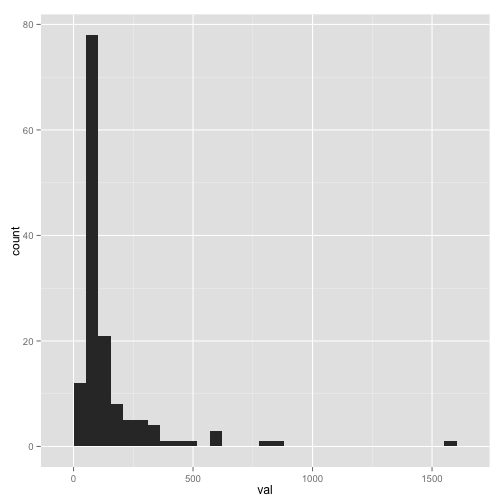
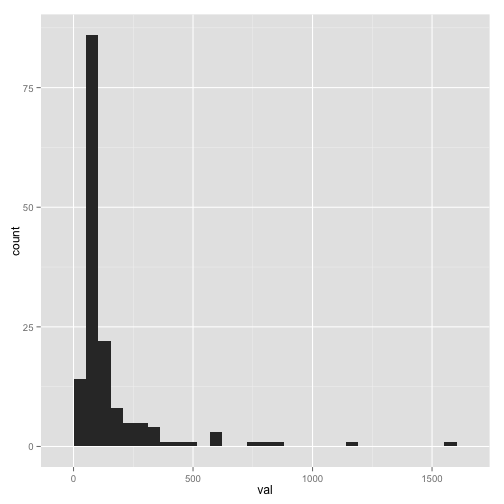
tried to update outliers workflow, but gateway timeouts again, @mfenner

diff --git a/alerts/outliers_workflow.md b/alerts/outliers_workflow.md
@@ -1,9 +1,9 @@
 Workflow for detecting and exploring just outliers
 ========================================================
 
-### Date
+### Date 
 
-Compiled on 2014-10-07 18:13:34
+Compiled on 2014-10-08 22:09:58
 
 ### Setup
 
@@ -58,19 +58,19 @@ Get data
 ```
 
 ```
-## Source: local data frame [143 x 6]
-##
+## Source: local data frame [156 x 6]
+## 
 ##          id                      article    val          create_date
 ## 1  11313573 10.1371/journal.pone.0090595 1602.0 2014-09-27T08:08:32Z
-## 2  11313611 10.1371/journal.pone.0051213  855.0 2014-09-27T08:08:33Z
-## 3  11313489 10.1371/journal.pone.0010894  783.0 2014-09-27T08:08:32Z
-## 4  11347639 10.1371/journal.pone.0023786  586.0 2014-09-29T08:07:01Z
-## 5  11313547 10.1371/journal.pone.0068330  572.0 2014-09-27T08:08:32Z
-## 6  11313595 10.1371/journal.pmed.1001493  570.7 2014-09-27T08:08:33Z
-## 7  11313569 10.1371/journal.pone.0046740  498.0 2014-09-27T08:08:32Z
-## 8  11313511 10.1371/journal.ppat.1003183  430.0 2014-09-27T08:08:32Z
-## 9  11313477 10.1371/journal.ppat.0020118  407.5 2014-09-27T08:08:32Z
-## 10 11313513 10.1371/journal.pbio.1000169  341.3 2014-09-27T08:08:32Z
+## 2  11669962 10.1371/journal.pbio.0030339 1167.0 2014-10-08T08:13:02Z
+## 3  11313611 10.1371/journal.pone.0051213  855.0 2014-09-27T08:08:33Z
+## 4  11313489 10.1371/journal.pone.0010894  783.0 2014-09-27T08:08:32Z
+## 5  11669970 10.1371/journal.pone.0068330  735.0 2014-10-08T08:13:03Z
+## 6  11347639 10.1371/journal.pone.0023786  586.0 2014-09-29T08:07:01Z
+## 7  11313547 10.1371/journal.pone.0068330  572.0 2014-09-27T08:08:32Z
+## 8  11313595 10.1371/journal.pmed.1001493  570.7 2014-09-27T08:08:33Z
+## 9  11313569 10.1371/journal.pone.0046740  498.0 2014-09-27T08:08:32Z
+## 10 11313511 10.1371/journal.ppat.1003183  430.0 2014-09-27T08:08:32Z
 ## ..      ...                          ...    ...                  ...
 ## Variables not shown: source (chr), class (chr)
 ```
@@ -91,11 +91,11 @@ toinspect <- res[1:num_get,] %>% select(-class)
 ```
 
 ```
-##  [1] "10.1371/journal.pone.0090595" "10.1371/journal.pone.0051213"
-##  [3] "10.1371/journal.pone.0010894" "10.1371/journal.pone.0023786"
-##  [5] "10.1371/journal.pone.0068330" "10.1371/journal.pmed.1001493"
-##  [7] "10.1371/journal.pone.0046740" "10.1371/journal.ppat.1003183"
-##  [9] "10.1371/journal.ppat.0020118" "10.1371/journal.pbio.1000169"
+##  [1] "10.1371/journal.pone.0090595" "10.1371/journal.pbio.0030339"
+##  [3] "10.1371/journal.pone.0051213" "10.1371/journal.pone.0010894"
+##  [5] "10.1371/journal.pone.0068330" "10.1371/journal.pone.0023786"
+##  [7] "10.1371/journal.pone.0068330" "10.1371/journal.pmed.1001493"
+##  [9] "10.1371/journal.pone.0046740" "10.1371/journal.ppat.1003183"
 ```
 
 Browse to an article
@@ -143,7 +143,7 @@ res %>%
 ## stat_bin: binwidth defaulted to range/30. Use 'binwidth = x' to adjust this.
 ```
 
-![plot of chunk ratio_dist](figure/ratio_dist.png)
+![plot of chunk ratio_dist](figure/ratio_dist.png) 
 
 
 Plot html and pdf views, just top 10
@@ -152,11 +152,11 @@ Plot html and pdf views, just top 10
 ```r
 alldf %>%
   select(-year, -month, -id, -val, -source, -xml_views, -ratio) %>%
-  gather(metric, value, -article, -date, -create_date) %>%
+  gather(metric, value, -article, -date, -create_date) %>% 
   ggplot(aes(date, value, color=metric)) + gg()
 ```
 
-![plot of chunk unnamed-chunk-10](figure/unnamed-chunk-10.png)
+![plot of chunk unnamed-chunk-10](figure/unnamed-chunk-10.png) 
 
 The HTML/PDF ratio, just top 10
 
@@ -167,9 +167,9 @@ alldf %>%
   ggplot(aes(date, ratio)) + gg()
 ```
 
-![plot of chunk unnamed-chunk-11](figure/unnamed-chunk-11.png)
+![plot of chunk unnamed-chunk-11](figure/unnamed-chunk-11.png) 
 
-All ratio lines together, all 142
+All ratio lines together, all 155
 
 
 ```r
@@ -181,19 +181,19 @@ All ratio lines together, all 142
 ```
 
 ```
-## Source: local data frame [5,395 x 13]
-##
+## Source: local data frame [5,543 x 13]
+## 
 ##                         article year month pdf_views html_views xml_views
-## 1  10.1371/journal.pone.0106930 2014     9        97       4105        15
-## 2  10.1371/journal.pone.0106930 2014    10        16       1044         0
-## 3  10.1371/journal.pone.0097506 2014     5        70      30640         8
-## 4  10.1371/journal.pone.0097506 2014     6       319      21380        13
-## 5  10.1371/journal.pone.0097506 2014     7        71       7984         1
-## 6  10.1371/journal.pone.0097506 2014     8        29       1699         2
-## 7  10.1371/journal.pone.0097506 2014     9        32        758         1
-## 8  10.1371/journal.pone.0097506 2014    10         9        993         0
-## 9  10.1371/journal.pone.0094215 2014     4      1119      36758        34
-## 10 10.1371/journal.pone.0094215 2014     5       269       5058         5
+## 1  10.1371/journal.pntd.0003196 2014     9        39        436         6
+## 2  10.1371/journal.pntd.0003196 2014    10         5        556         1
+## 3  10.1371/journal.pone.0106930 2014     9        97       4105        15
+## 4  10.1371/journal.pone.0106930 2014     9        97       4105        15
+## 5  10.1371/journal.pone.0106930 2014    10        16       1044         0
+## 6  10.1371/journal.pone.0106930 2014    10        16       1044         0
+## 7  10.1371/journal.pone.0097506 2014     5        70      30640         8
+## 8  10.1371/journal.pone.0097506 2014     6       319      21380        13
+## 9  10.1371/journal.pone.0097506 2014     7        71       7984         1
+## 10 10.1371/journal.pone.0097506 2014     8        29       1699         2
 ## ..                          ...  ...   ...       ...        ...       ...
 ## Variables not shown: id (dbl), val (dbl), create_date (date), source
 ##   (chr), class (chr), date (date), ratio (dbl)
@@ -202,13 +202,13 @@ All ratio lines together, all 142
 ```r
 alldf_alldois %>%
   select(article, date, create_date, ratio) %>%
-  ggplot(aes(date, log10(ratio), group=article)) +
+  ggplot(aes(date, log10(ratio), group=article)) + 
     geom_line() +
     labs(y="", x="") +
     theme_grey(base_size = 14)
 ```
 
-![plot of chunk unnamed-chunk-12](figure/unnamed-chunk-12.png)
+![plot of chunk unnamed-chunk-12](figure/unnamed-chunk-12.png) 
 
 Dig in to particular DOIs. This is rather free-form, depends on the metric of interest.
 
@@ -226,24 +226,33 @@ Are the high value offender DOIs associated with other alm metrics, like social 
 dat <- alm_ids(res$article, source = c("facebook","twitter","mendeley","reddit","scopus","wikipedia"))
 datdf <- rbind_all(dat$data)
 datdf$article <- rep(res$article, each = 6)
+```
+
+```
+## Error: replacement has 930 rows, data has 0
+```
+
+```r
 datdf <- inner_join(datdf, res %>% filter(article %in% res$article) %>% select(article, val) )
 ```
 
 ```
-## Joining by: "article"
+## Error: No common variables. Please specify `by` param.
 ```
 
 ```r
-datdf %>%
-  ggplot(aes(x=val, y=total)) +
+datdf %>% 
+  ggplot(aes(x=val, y=total)) + 
     geom_point(aes(size=2)) +
     facet_wrap(~ .id, scales='free') +
     labs(y="", x="") +
     theme_grey(base_size = 18) +
     theme(legend.position="none")
-```x
+```
 
-![plot of chunk unnamed-chunk-14](figure/unnamed-chunk-14.png)
+```
+## Error: At least one layer must contain all variables used for facetting
+```
 
 
 Detect spikes/patterns in signals through time
